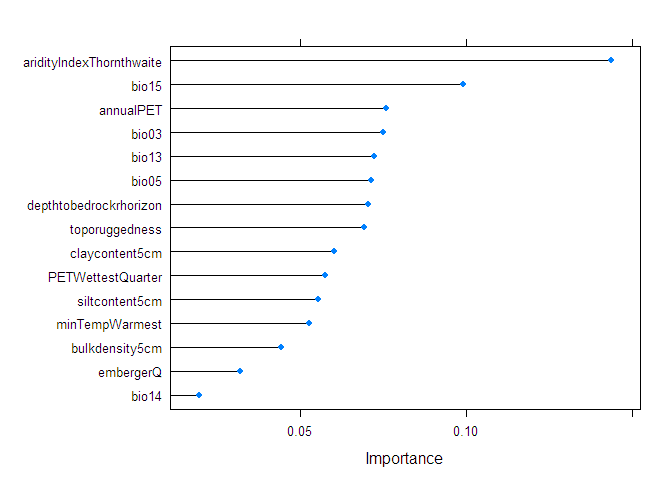
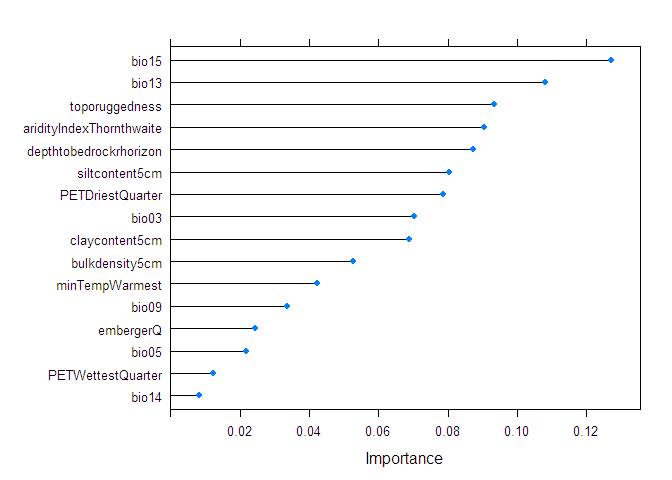
fixed comparison maps/plots

diff --git a/speasouth_nichemodeling_20200501.md b/speasouth_nichemodeling_20200501.md
@@ -225,14 +225,14 @@ X.sel <- X[, !names(X) %in% remove.vars] # remove the correlated variables
 names(X.sel)
 ```
 
-    ##  [1] "annualPET"                "aridityIndexThornthwaite"
-    ##  [3] "bio03"                    "bio05"                   
+    ##  [1] "aridityIndexThornthwaite" "bio03"                   
+    ##  [3] "bio05"                    "bio09"                   
     ##  [5] "bio13"                    "bio14"                   
     ##  [7] "bio15"                    "bulkdensity5cm"          
     ##  [9] "claycontent5cm"           "depthtobedrockrhorizon"  
     ## [11] "embergerQ"                "minTempWarmest"          
-    ## [13] "PETWettestQuarter"        "siltcontent5cm"          
-    ## [15] "toporuggedness"
+    ## [13] "PETDriestQuarter"         "PETWettestQuarter"       
+    ## [15] "siltcontent5cm"           "toporuggedness"
 
 ``` r
 ### findCorrelation is pretty crude. Try Boruta (permuted random forest feature importance)
@@ -258,13 +258,19 @@ boruta_results <- Boruta(x=X.sel,
                        getImp=getImpExtraRaw)
 ```
 
-    ## After 11 iterations, +1.9 secs:
+    ## After 11 iterations, +2.1 secs:
 
-    ##  confirmed 14 attributes: annualPET, aridityIndexThornthwaite, bio03, bio05, bio13 and 9 more;
+    ##  confirmed 14 attributes: aridityIndexThornthwaite, bio03, bio05, bio09, bio13 and 9 more;
+
+    ##  still have 2 attributes left.
+
+    ## After 39 iterations, +6.4 secs:
+
+    ##  confirmed 1 attribute: bio14;
 
     ##  still have 1 attribute left.
 
-    ## After 44 iterations, +6.8 secs:
+    ## After 85 iterations, +13 secs:
 
     ##  confirmed 1 attribute: depthtobedrockrhorizon;
 
@@ -275,14 +281,14 @@ boruta_keep = names(boruta_results$finalDecision[boruta_results$finalDecision=="
 boruta_keep
 ```
 
-    ##  [1] "annualPET"                "aridityIndexThornthwaite"
-    ##  [3] "bio03"                    "bio05"                   
+    ##  [1] "aridityIndexThornthwaite" "bio03"                   
+    ##  [3] "bio05"                    "bio09"                   
     ##  [5] "bio13"                    "bio14"                   
     ##  [7] "bio15"                    "bulkdensity5cm"          
     ##  [9] "claycontent5cm"           "depthtobedrockrhorizon"  
     ## [11] "embergerQ"                "minTempWarmest"          
-    ## [13] "PETWettestQuarter"        "siltcontent5cm"          
-    ## [15] "toporuggedness"
+    ## [13] "PETDriestQuarter"         "PETWettestQuarter"       
+    ## [15] "siltcontent5cm"           "toporuggedness"
 
 ``` r
 X.sel <- X.sel[, names(X.sel) %in% boruta_keep]
@@ -292,6 +298,7 @@ X.sel <- X.sel[, names(X.sel) %in% boruta_keep]
 # blue = shadow (permuted) variable
 # green = higher importance than maximum shadow (permuted) variable
 # red = below max shadow importance and should be dropped
+par(mar=c(10,5,1,1))
 plot(boruta_results, las=2)
 ```
 
@@ -304,14 +311,14 @@ socalstack_sub <- subset(socalstack, boruta_keep) #setdiff(names(socalstack), re
 names(socalstack_sub)
 ```
 
-    ##  [1] "annualPET"                "aridityIndexThornthwaite"
-    ##  [3] "bio03"                    "bio05"                   
+    ##  [1] "aridityIndexThornthwaite" "bio03"                   
+    ##  [3] "bio05"                    "bio09"                   
     ##  [5] "bio13"                    "bio14"                   
     ##  [7] "bio15"                    "bulkdensity5cm"          
     ##  [9] "claycontent5cm"           "depthtobedrockrhorizon"  
     ## [11] "embergerQ"                "minTempWarmest"          
-    ## [13] "PETWettestQuarter"        "siltcontent5cm"          
-    ## [15] "toporuggedness"
+    ## [13] "PETDriestQuarter"         "PETWettestQuarter"       
+    ## [15] "siltcontent5cm"           "toporuggedness"
 
 ``` r
 # this is the complete dataframe that will be the input in the models
@@ -422,26 +429,26 @@ xgb_caret
     ## Resampling results across tuning parameters:
     ## 
     ##   eta  max_depth  nrounds  AUC        Precision  Recall     F        
-    ##   0.1   3         100      0.7763398  0.7461583  0.7641026  0.7525200
-    ##   0.1   3         500      0.7691969  0.7380203  0.7615385  0.7475035
-    ##   0.1   5         100      0.7719995  0.7511812  0.7743590  0.7603145
-    ##   0.1   5         500      0.7746443  0.7441766  0.7769231  0.7581310
-    ##   0.1   7         100      0.7775282  0.7536105  0.7743590  0.7608609
-    ##   0.1   7         500      0.7777739  0.7588136  0.7666667  0.7599926
-    ##   0.1   9         100      0.7777575  0.7509527  0.7769231  0.7609979
-    ##   0.1   9         500      0.7753455  0.7467552  0.7692308  0.7553962
-    ##   0.1  11         100      0.7718846  0.7472103  0.7794872  0.7608983
-    ##   0.1  11         500      0.7724037  0.7380513  0.7666667  0.7497359
-    ##   0.5   3         100      0.7703545  0.7226122  0.7512821  0.7345117
-    ##   0.5   3         500      0.7642056  0.7282703  0.7615385  0.7419486
-    ##   0.5   5         100      0.7786043  0.7296875  0.7692308  0.7469702
-    ##   0.5   5         500      0.7781908  0.7350216  0.7717949  0.7506677
-    ##   0.5   7         100      0.7764998  0.7461842  0.7769231  0.7586501
-    ##   0.5   7         500      0.7757290  0.7253521  0.7769231  0.7481820
-    ##   0.5   9         100      0.7775669  0.7356821  0.7589744  0.7449589
-    ##   0.5   9         500      0.7767521  0.7336964  0.7717949  0.7491779
-    ##   0.5  11         100      0.7773090  0.7350782  0.7564103  0.7432718
-    ##   0.5  11         500      0.7765384  0.7354641  0.7692308  0.7485112
+    ##   0.1   3         100      0.7802920  0.7524703  0.8000000  0.7731001
+    ##   0.1   3         500      0.7814504  0.7503296  0.7923077  0.7677371
+    ##   0.1   5         100      0.7775202  0.7479210  0.7794872  0.7607144
+    ##   0.1   5         500      0.7806055  0.7564200  0.7769231  0.7640455
+    ##   0.1   7         100      0.7790684  0.7613452  0.7923077  0.7739717
+    ##   0.1   7         500      0.7874797  0.7527468  0.7820513  0.7638836
+    ##   0.1   9         100      0.7865439  0.7664328  0.7743590  0.7675804
+    ##   0.1   9         500      0.7909215  0.7593479  0.7641026  0.7584912
+    ##   0.1  11         100      0.7852958  0.7557505  0.7794872  0.7644330
+    ##   0.1  11         500      0.7870352  0.7565970  0.7692308  0.7597446
+    ##   0.5   3         100      0.7936276  0.7566556  0.7717949  0.7609828
+    ##   0.5   3         500      0.7923096  0.7544997  0.7769231  0.7635167
+    ##   0.5   5         100      0.7818561  0.7410045  0.7589744  0.7473459
+    ##   0.5   5         500      0.7802379  0.7383093  0.7615385  0.7473807
+    ##   0.5   7         100      0.7710730  0.7415014  0.7589744  0.7481825
+    ##   0.5   7         500      0.7765464  0.7454939  0.7769231  0.7593205
+    ##   0.5   9         100      0.7808888  0.7536181  0.7589744  0.7542029
+    ##   0.5   9         500      0.7813374  0.7520212  0.7743590  0.7602551
+    ##   0.5  11         100      0.7856980  0.7504891  0.7615385  0.7537277
+    ##   0.5  11         500      0.7851781  0.7588478  0.7794872  0.7663191
     ## 
     ## Tuning parameter 'gamma' was held constant at a value of 0
     ##  1
@@ -449,7 +456,7 @@ xgb_caret
     ##  1
     ## Tuning parameter 'subsample' was held constant at a value of 1
     ## AUC was used to select the optimal model using the largest value.
-    ## The final values used for the model were nrounds = 100, max_depth = 5,
+    ## The final values used for the model were nrounds = 100, max_depth = 3,
     ##  eta = 0.5, gamma = 0, colsample_bytree = 1, min_child_weight = 1
     ##  and subsample = 1.
 
@@ -510,58 +517,58 @@ ranger_caret
     ## Resampling results across tuning parameters:
     ## 
     ##   mtry  splitrule   min.node.size  AUC        Precision  Recall   
-    ##    3    gini         2             0.8057957  0.7781564  0.7692308
-    ##    3    gini         5             0.8095058  0.7806395  0.7692308
-    ##    3    gini        10             0.8094645  0.7751306  0.7461538
-    ##    3    extratrees   2             0.8111774  0.7522368  0.8051282
-    ##    3    extratrees   5             0.8075571  0.7667263  0.8076923
-    ##    3    extratrees  10             0.8111248  0.7702917  0.7974359
-    ##    4    gini         2             0.8021481  0.7641103  0.7641026
-    ##    4    gini         5             0.8032412  0.7685866  0.7666667
-    ##    4    gini        10             0.8069094  0.7689187  0.7435897
-    ##    4    extratrees   2             0.8118849  0.7629189  0.8000000
-    ##    4    extratrees   5             0.8086911  0.7648278  0.7974359
-    ##    4    extratrees  10             0.8068295  0.7699280  0.7923077
-    ##    7    gini         2             0.8012131  0.7687578  0.7589744
-    ##    7    gini         5             0.8027285  0.7742789  0.7461538
-    ##    7    gini        10             0.8013189  0.7767765  0.7461538
-    ##    7    extratrees   2             0.8047099  0.7559935  0.8025641
-    ##    7    extratrees   5             0.8066796  0.7677002  0.8000000
-    ##    7    extratrees  10             0.8055008  0.7740327  0.7846154
-    ##   15    gini         2             0.7901325  0.7591479  0.7410256
-    ##   15    gini         5             0.7930368  0.7704770  0.7615385
-    ##   15    gini        10             0.7973522  0.7729169  0.7538462
-    ##   15    extratrees   2             0.8026432  0.7591484  0.7820513
-    ##   15    extratrees   5             0.8045353  0.7713595  0.7948718
-    ##   15    extratrees  10             0.8031933  0.7797810  0.7769231
+    ##    4    gini         2             0.8074170  0.7860491  0.7743590
+    ##    4    gini         5             0.8047888  0.7832537  0.7692308
+    ##    4    gini        10             0.8091528  0.7926016  0.7512821
+    ##    4    extratrees   2             0.8080157  0.7634918  0.8051282
+    ##    4    extratrees   5             0.8096885  0.7752549  0.8051282
+    ##    4    extratrees  10             0.8089180  0.7818715  0.7871795
+    ##    5    gini         2             0.8030810  0.7865016  0.7589744
+    ##    5    gini         5             0.8047046  0.7825934  0.7743590
+    ##    5    gini        10             0.8044423  0.7814223  0.7435897
+    ##    5    extratrees   2             0.8113457  0.7754600  0.8000000
+    ##    5    extratrees   5             0.8105226  0.7670817  0.7871795
+    ##    5    extratrees  10             0.8089002  0.7908607  0.7794872
+    ##    8    gini         2             0.7992805  0.7852010  0.7641026
+    ##    8    gini         5             0.8005522  0.7842237  0.7641026
+    ##    8    gini        10             0.7991105  0.7892245  0.7512821
+    ##    8    extratrees   2             0.8026858  0.7708715  0.7897436
+    ##    8    extratrees   5             0.8097606  0.7826051  0.7923077
+    ##    8    extratrees  10             0.8072170  0.7792358  0.7871795
+    ##   16    gini         2             0.7939996  0.7781613  0.7461538
+    ##   16    gini         5             0.7887269  0.7726275  0.7538462
+    ##   16    gini        10             0.7920339  0.7835077  0.7435897
+    ##   16    extratrees   2             0.7993370  0.7764151  0.7871795
+    ##   16    extratrees   5             0.8015223  0.7769410  0.7897436
+    ##   16    extratrees  10             0.8048253  0.7933355  0.7769231
     ##   F        
-    ##   0.7696257
-    ##   0.7715470
-    ##   0.7568761
-    ##   0.7759046
-    ##   0.7843636
-    ##   0.7814165
-    ##   0.7607861
-    ##   0.7643994
-    ##   0.7511080
-    ##   0.7787970
-    ##   0.7785160
-    ##   0.7783252
-    ##   0.7615559
-    ##   0.7553898
-    ##   0.7576480
-    ##   0.7764951
-    ##   0.7807372
-    ##   0.7758861
-    ##   0.7472396
-    ##   0.7635959
-    ##   0.7607015
-    ##   0.7678372
-    ##   0.7803918
-    ##   0.7744365
+    ##   0.7766162
+    ##   0.7722002
+    ##   0.7679035
+    ##   0.7815631
+    ##   0.7867827
+    ##   0.7822078
+    ##   0.7686388
+    ##   0.7749710
+    ##   0.7579390
+    ##   0.7853610
+    ##   0.7737651
+    ##   0.7824517
+    ##   0.7720765
+    ##   0.7707933
+    ##   0.7663573
+    ##   0.7773587
+    ##   0.7848304
+    ##   0.7798694
+    ##   0.7590185
+    ##   0.7597350
+    ##   0.7602220
+    ##   0.7793292
+    ##   0.7805185
+    ##   0.7819519
     ## 
     ## AUC was used to select the optimal model using the largest value.
-    ## The final values used for the model were mtry = 4, splitrule =
+    ## The final values used for the model were mtry = 5, splitrule =
     ##  extratrees and min.node.size = 2.
 
 ``` r
@@ -589,7 +596,7 @@ getTrainPerf(ranger_caret)
 ```
 
     ##    TrainAUC TrainPrecision TrainRecall   TrainF method
-    ## 1 0.8118849      0.7629189         0.8 0.778797 ranger
+    ## 1 0.8113457        0.77546         0.8 0.785361 ranger
 
 ``` r
 # equivalent to:
@@ -604,10 +611,10 @@ confusionMatrix(ranger_caret)
     ##  
     ##           Reference
     ## Prediction present absent
-    ##    present    43.9   13.9
-    ##    absent     11.0   31.2
+    ##    present    43.9   12.9
+    ##    absent     11.0   32.2
     ##                             
-    ##  Accuracy (average) : 0.7511
+    ##  Accuracy (average) : 0.7609
 
 ``` r
 #twoClassSummary(data=ranger_caret$pred, lev=levels(ranger_caret$pred$obs))
@@ -621,7 +628,7 @@ getTrainPerf(xgb_caret)
 ```
 
     ##    TrainAUC TrainPrecision TrainRecall    TrainF  method
-    ## 1 0.7786043      0.7296875   0.7692308 0.7469702 xgbTree
+    ## 1 0.7936276      0.7566556   0.7717949 0.7609828 xgbTree
 
 ``` r
 confusionMatrix(xgb_caret)
@@ -633,10 +640,10 @@ confusionMatrix(xgb_caret)
     ##  
     ##           Reference
     ## Prediction present absent
-    ##    present    42.2   15.8
-    ##    absent     12.7   29.4
+    ##    present    42.3   13.9
+    ##    absent     12.5   31.2
     ##                             
-    ##  Accuracy (average) : 0.7159
+    ##  Accuracy (average) : 0.7356
 
 ``` r
 #twoClassSummary(data=xgb_caret$pred, lev=levels(xgb_caret$pred$obs))
@@ -660,23 +667,23 @@ summary(results)
     ## 
     ## AUC 
     ##          Min.   1st Qu.    Median      Mean   3rd Qu.      Max. NA's
-    ## RF  0.6788524 0.7642945 0.7968090 0.8118849 0.8711055 0.9001120    0
-    ## XGB 0.6740231 0.7320556 0.7774966 0.7786043 0.8154263 0.8885378    0
+    ## RF  0.6906683 0.7613381 0.7878373 0.8113457 0.8677642 0.8952574    0
+    ## XGB 0.6825667 0.7452852 0.8047628 0.7936276 0.8403796 0.8980568    0
     ## 
     ## F 
     ##          Min.   1st Qu.    Median      Mean   3rd Qu.      Max. NA's
-    ## RF  0.7058824 0.7284211 0.7931034 0.7787970 0.8199280 0.8474576    0
-    ## XGB 0.6415094 0.7269116 0.7636364 0.7469702 0.7735043 0.8196721    0
+    ## RF  0.7037037 0.7593103 0.7924528 0.7853610 0.8191721 0.8474576    0
+    ## XGB 0.6538462 0.7103424 0.7727273 0.7609828 0.8038462 0.8518519    0
     ## 
     ## Precision 
     ##          Min.   1st Qu.    Median      Mean   3rd Qu.      Max. NA's
-    ## RF  0.6666667 0.7193750 0.7575758 0.7629189 0.8148148 0.8695652    0
-    ## XGB 0.6296296 0.7089947 0.7272727 0.7296875 0.7646154 0.8076923    0
+    ## RF  0.6785714 0.7363524 0.7857143 0.7754600 0.8204509 0.8461538    0
+    ## XGB 0.6538462 0.7060185 0.7500000 0.7566556 0.8003979 0.9444444    0
     ## 
     ## Recall 
     ##          Min.   1st Qu.    Median      Mean   3rd Qu.      Max. NA's
-    ## RF  0.6923077 0.7692308 0.8076923 0.8000000 0.8461538 0.9615385    0
-    ## XGB 0.6153846 0.7307692 0.7692308 0.7692308 0.8076923 0.9615385    0
+    ## RF  0.6923077 0.7307692 0.8076923 0.8000000 0.8461538 0.9615385    0
+    ## XGB 0.6538462 0.6923077 0.7692308 0.7717949 0.8461538 0.8846154    0
 
 ``` r
 # boxplots of results
@@ -759,14 +766,18 @@ ranger_predtest_bin <- raster::predict(socalstack_sub, ranger_caret_best, type="
 par(mfrow=c(2,2))
 par(mar=c(2,2,2,1))
 plot(xgb_predtest_prob, col=magma(20), main="presence probability, XGB")
-points(ycoords, col="red")
+points(ycoords[y=="present",], col="green")
+points(ycoords[y=="absent",], col="red")
 plot(ranger_predtest_prob, col=magma(20), main="presence probability, ranger RF")
-points(ycoords, col="red")
+points(ycoords[y=="present",], col="green")
+points(ycoords[y=="absent",], col="red")
 
 plot(2-xgb_predtest_bin, col=magma(20), main="presence (binary), XGB")
-points(ycoords, col="red")
+points(ycoords[y=="present",], col="green")
+points(ycoords[y=="absent",], col="red")
 plot(2-ranger_predtest_bin, col=magma(20), main="presence (binary), ranger RF")
-points(ycoords, col="red")
+points(ycoords[y=="present",], col="green")
+points(ycoords[y=="absent",], col="red")
 ```
 
 ![](speasouth_nichemodeling_20200501_files/figure-gfm/unnamed-chunk-29-1.png)<!-- -->
